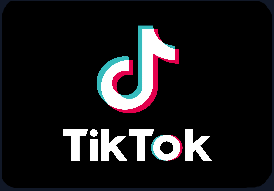
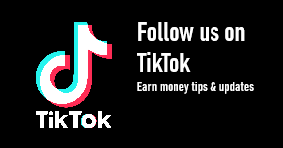
Add X hero card next to Trustpilot

Changed region(s): [[0.1168, 0.1081, 0.9051, 0.8649], [0.0, 0.0, 1.0, 1.0]]

diff --git a/index.js b/index.js
@@ -2061,6 +2061,10 @@ app.get('/', async (req, res) => {
       left:560px;
     }
 
+    .hero-banner.hero-tiktok{
+      left:920px;
+    }
+
     .hero-banner a{
       display:block;
     }
@@ -2077,6 +2081,11 @@ app.get('/', async (req, res) => {
     }
 
     .hero-banner.hero-x img{
+      width:340px;
+      object-fit:cover;
+    }
+
+    .hero-banner.hero-tiktok img{
       width:340px;
       object-fit:cover;
     }
@@ -2219,6 +2228,11 @@ app.get('/', async (req, res) => {
         left:18px;
         top:216px;
       }
+
+      .hero-banner.hero-tiktok{
+        left:380px;
+        top:216px;
+      }
     }
 
     @media (max-width: 760px){
@@ -2233,6 +2247,16 @@ app.get('/', async (req, res) => {
       }
 
       .hero-banner.hero-x img{
+        width:300px;
+        height:auto;
+      }
+
+      .hero-banner.hero-tiktok{
+        left:18px;
+        top:336px;
+      }
+
+      .hero-banner.hero-tiktok img{
         width:300px;
         height:auto;
       }
@@ -2258,6 +2282,16 @@ app.get('/', async (req, res) => {
         width:240px;
         height:auto;
       }
+
+      .hero-banner.hero-tiktok{
+        left:10px;
+        top:286px;
+      }
+
+      .hero-banner.hero-tiktok img{
+        width:240px;
+        height:auto;
+      }
     }
 
   </style>
@@ -2271,6 +2305,12 @@ app.get('/', async (req, res) => {
   <div class="hero-banner hero-x">
     <a href="https://x.com/SurveyCashh" target="_blank" rel="noopener noreferrer">
       <img src="/img/x-follow.png" alt="Follow us on X">
+    </a>
+  </div>
+
+  <div class="hero-banner hero-tiktok">
+    <a href="https://www.tiktok.com/@surveycash" target="_blank" rel="noopener noreferrer">
+      <img src="/img/tiktok-follow.png" alt="Follow us on TikTok">
     </a>
   </div>
 
